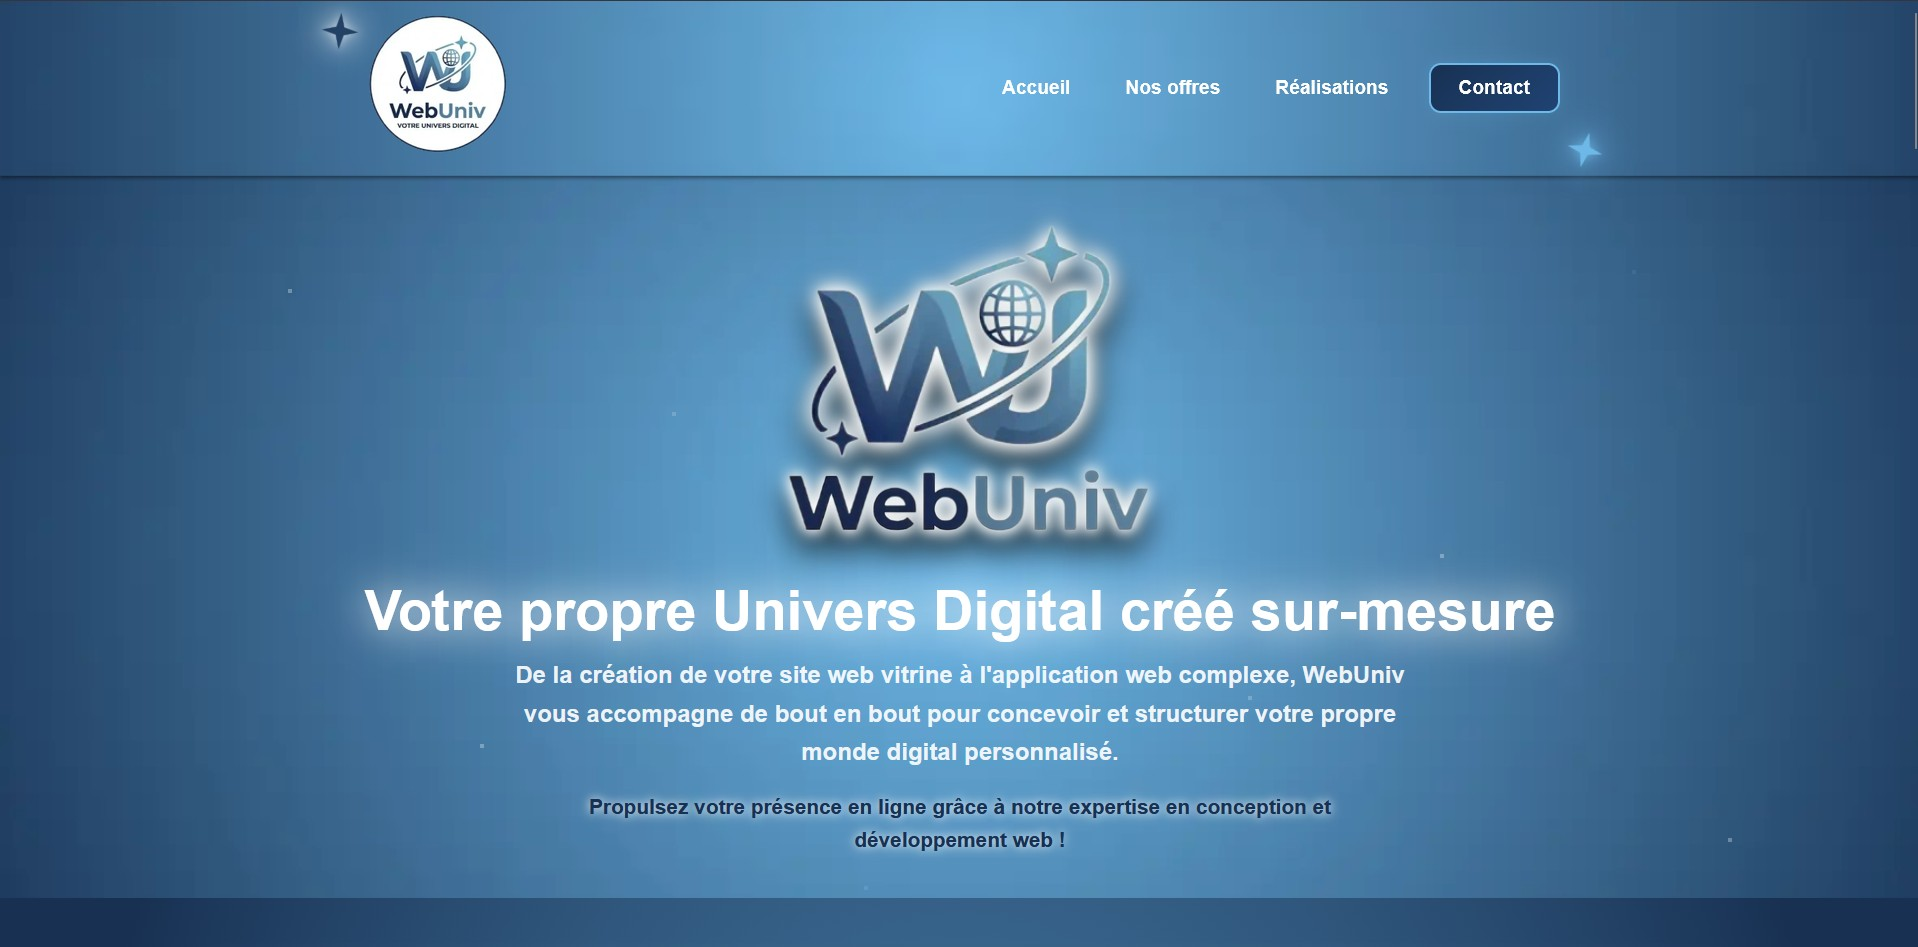
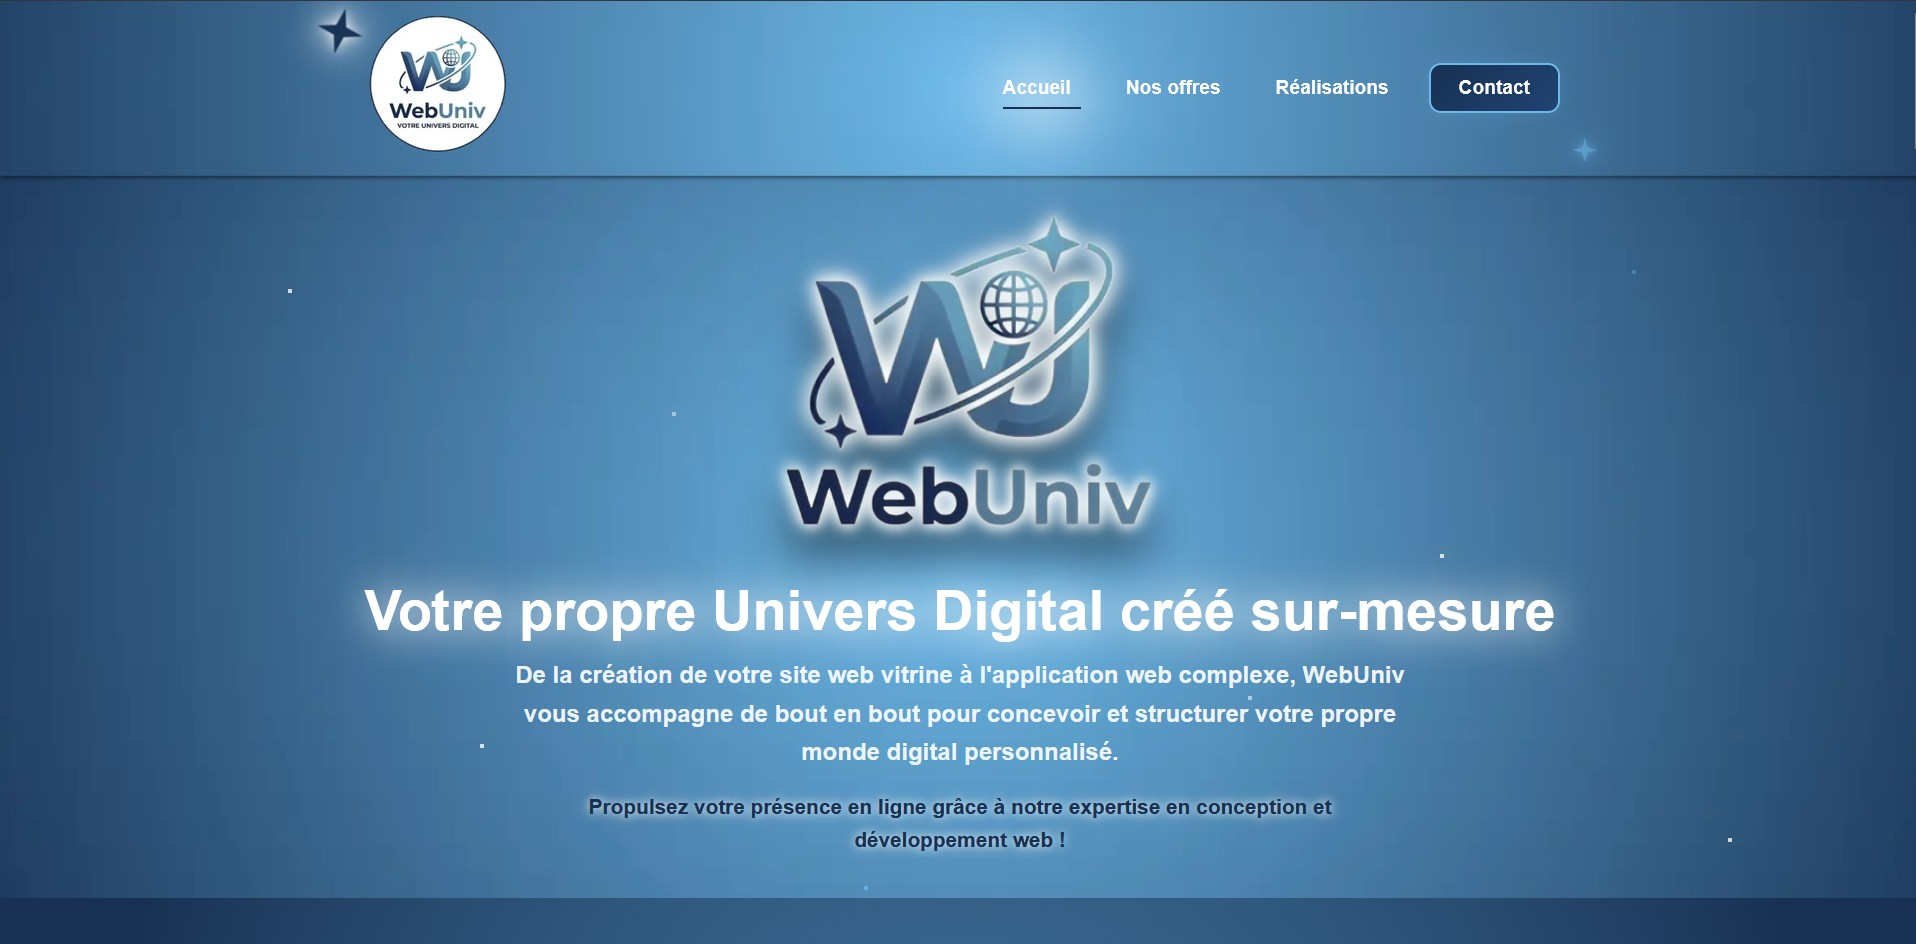
changed image for webuniv preview + changed color for active element in navbar

diff --git a/src/css/Header.css b/src/css/Header.css
@@ -238,16 +238,17 @@
 /* Active state for standard links */
 .header-nav a.active:not(#navbar-contactLink) {
     color: var(--color-white);
-    filter: drop-shadow(0 0 2px var(--color-abyssal-blue))
-            drop-shadow(0 0 6px var(--color-abyssal-blue))
-            drop-shadow(0 0 15px var(--color-abyssal-blue))
-            drop-shadow(0 0 30px var(--color-abyssal-blue));
+    filter: 
+            drop-shadow(0 0 20px var(--color-light-blue))
+            drop-shadow(0 0 25px var(--color-white))
+            drop-shadow(0 0 35px var(--color-white))
+            drop-shadow(0 0 35px var(--color-light-blue));
 }
 
 /* Keeps the underline permanently visible on active page */
 .header-nav a.active:not(#navbar-contactLink)::after {
     width: calc(100% - 20px);
-    background-color: var(--color-light-blue);
+    background-color: var(--color-abyssal-blue);
 }
 
 /* Active state for the contact button */
